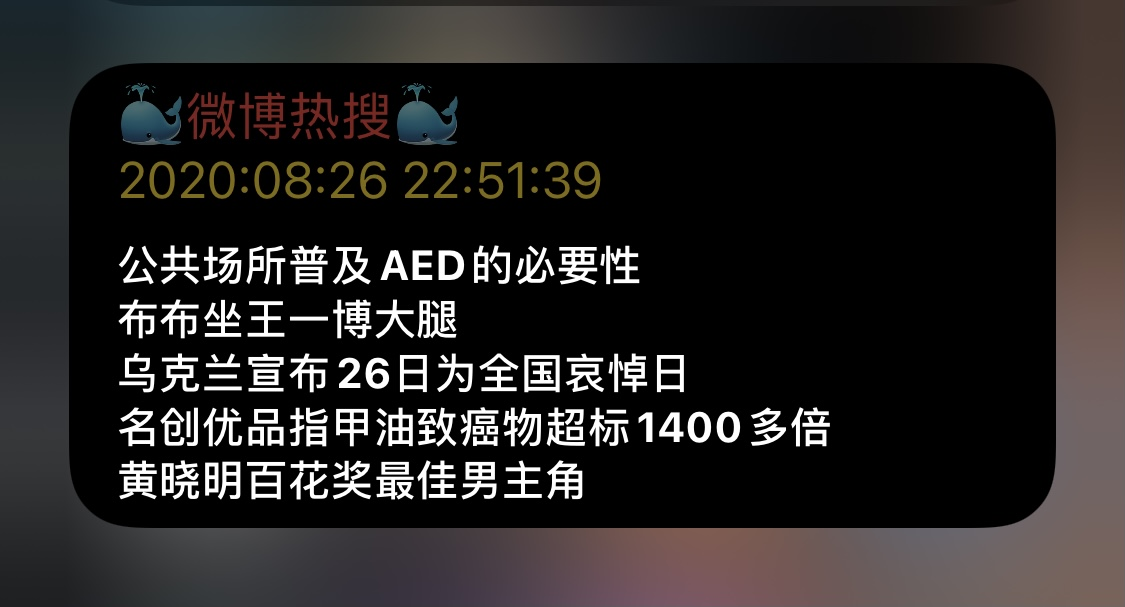
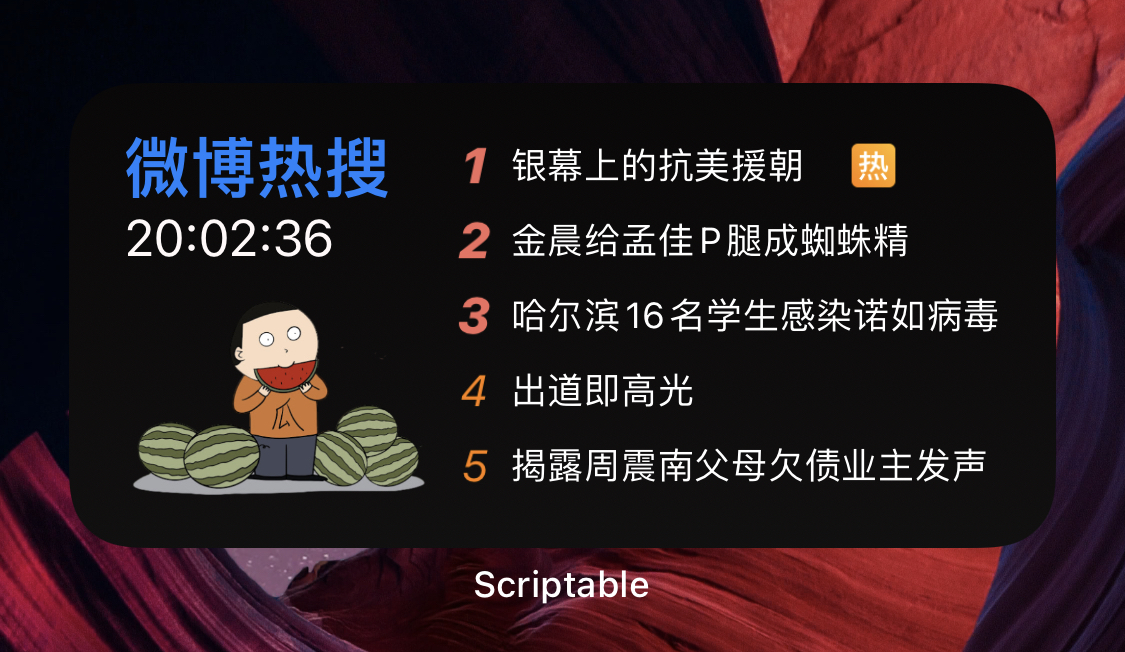
Update widget style

diff --git a/Weibo/weibo.js b/Weibo/weibo.js
@@ -1,9 +1,12 @@
+// Variables used by Scriptable.
+// These must be at the very top of the file. Do not edit.
+// icon-color: brown; icon-glyph: magic;
 const textColor = "#ffffff";
 
 // 更新热搜数目
 const totalCount = 5;
 
-const apiUrl = `http://api.rosysun.cn/weibo/`;
+const apiUrl = `https://api.oioweb.cn/api/summary.php`;
 const request = new Request(apiUrl);
 const json = await request.loadString();
 const data = JSON.parse(json);
@@ -13,45 +16,86 @@ if (data == undefined) {
 }
 
 if (config.runsInWidget) {
-    let widget = createWidget(data['data']);
+    let widget = createWidget(data);
     Script.setWidget(widget);
     Script.complete();
 } else {
-    let widget = createWidget(data['data']);
+    let widget = createWidget(data);
     await widget.presentMedium();
 }
 
 function createWidget(data) {
     const widget = new ListWidget();
-    const title = widget.addText('🐳微博热搜🐳')
-    title.textSize = 15;
-    title.textColor = Color.red();
-    title.textOpacity = 0.5;
-    const time = widget.addText(currentTime())
-    time.textSize = 15;
-    time.textColor = Color.yellow();
-    time.textOpacity = 0.5;
 
-    widget.addSpacer();
-    widget.spacing = 1;
+    const bgColor = new LinearGradient();
+    bgColor.colors = [new Color("#090808"), new Color("#111010")]
+    bgColor.locations = [0.0, 1.0];
+    widget.backgroundGradient = bgColor;
 
-    for (let index = 0; index < totalCount; index++) {
-        const element = data[index];
-        const title = widget.addText(element['title']);
-        title.textColor = new Color(textColor);
-        title.font = Font.boldSystemFont(14);
-        title.leftAlignText();
-    }
+    var contentStack = widget.addStack();
+    contentStack.layoutHorizontally();
+
+    var leftStack = contentStack.addStack()
+    layoutLeftStack(leftStack);
+
+    var rightStack = contentStack.addStack()
+    layoutRightStack(rightStack);
+
     return widget
+}
+
+function layoutLeftStack(stack) {
+    var contentStack = stack.addStack();
+    contentStack.layoutVertically();
+    const title = contentStack.addText('微博热搜')
+    title.font = Font.boldSystemFont(22);;
+    title.textColor = new Color('#0983FE');
+
+    const updateTime = contentStack.addText(currentTime());
+    updateTime.textSize = 11;
+    updateTime.textColor = new Color('FFF9F9');
+
+    let image = contentStack.addImage(readICloudImage('images/weibo/gua.png'));
+    image.imageSize = new Size(104, 78);
+}
+
+function layoutRightStack(stack) {
+    var contentStack = stack.addStack();
+    contentStack.layoutVertically();
+
+    for(let index = 0; index < totalCount; index++) {
+        const element = data[index];
+        let itemStack = contentStack.addStack();
+        itemStack.layoutHorizontally();
+        itemStack.centerAlignContent();
+
+        let indexImage = itemStack.addImage(readICloudImage('images/weibo/' + (index + 1) + '.png'));
+        indexImage.imageSize = new Size(25, 25)
+
+        const itemText = itemStack.addText(element['title']);
+        itemText.textColor = new Color(textColor);
+        itemText.font = Font.systemFont(12);
+        itemText.leftAlignText();
+
+        if (index == 0) {
+            itemStack.addSpacer(10)
+
+            let hotImage = itemStack.addImage(readICloudImage('images/weibo/hot.png'));
+            hotImage.imageSize = new Size(25, 25);
+        } 
+    }
+}
+
+function readICloudImage(imagePath) {
+    var fm = FileManager.iCloud();
+    var imagePath = fm.documentsDirectory() + '/' + imagePath;
+    return fm.readImage(imagePath);
 }
 
 function currentTime() {
     var now = new Date();
 
-    return now.getFullYear() + ":" +
-        formatNumber(now.getMonth()) + ":" +
-        formatNumber(now.getDate()) + " " +
-        formatNumber(now.getHours()) + ":" +
+    return formatNumber(now.getHours()) + ":" +
         formatNumber(now.getMinutes()) + ":" +
         formatNumber(now.getSeconds());
 }
